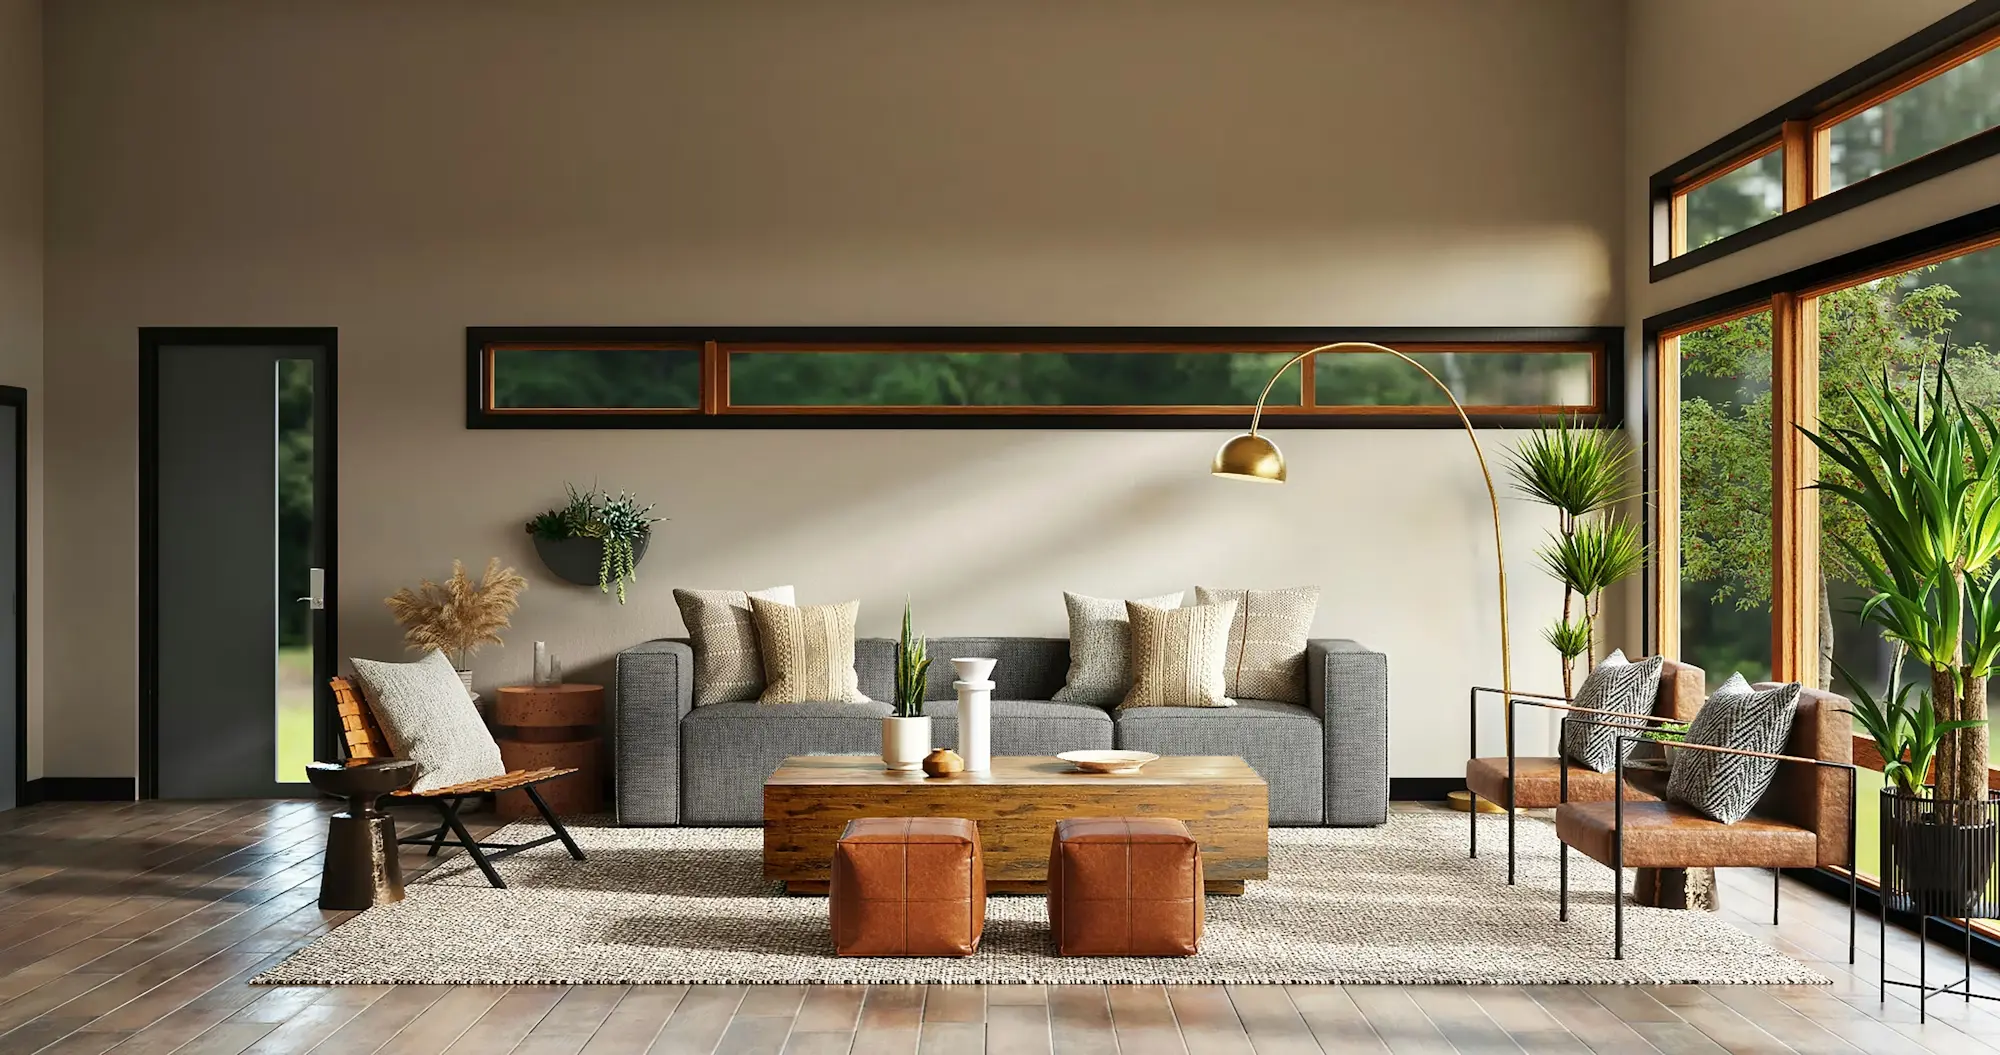
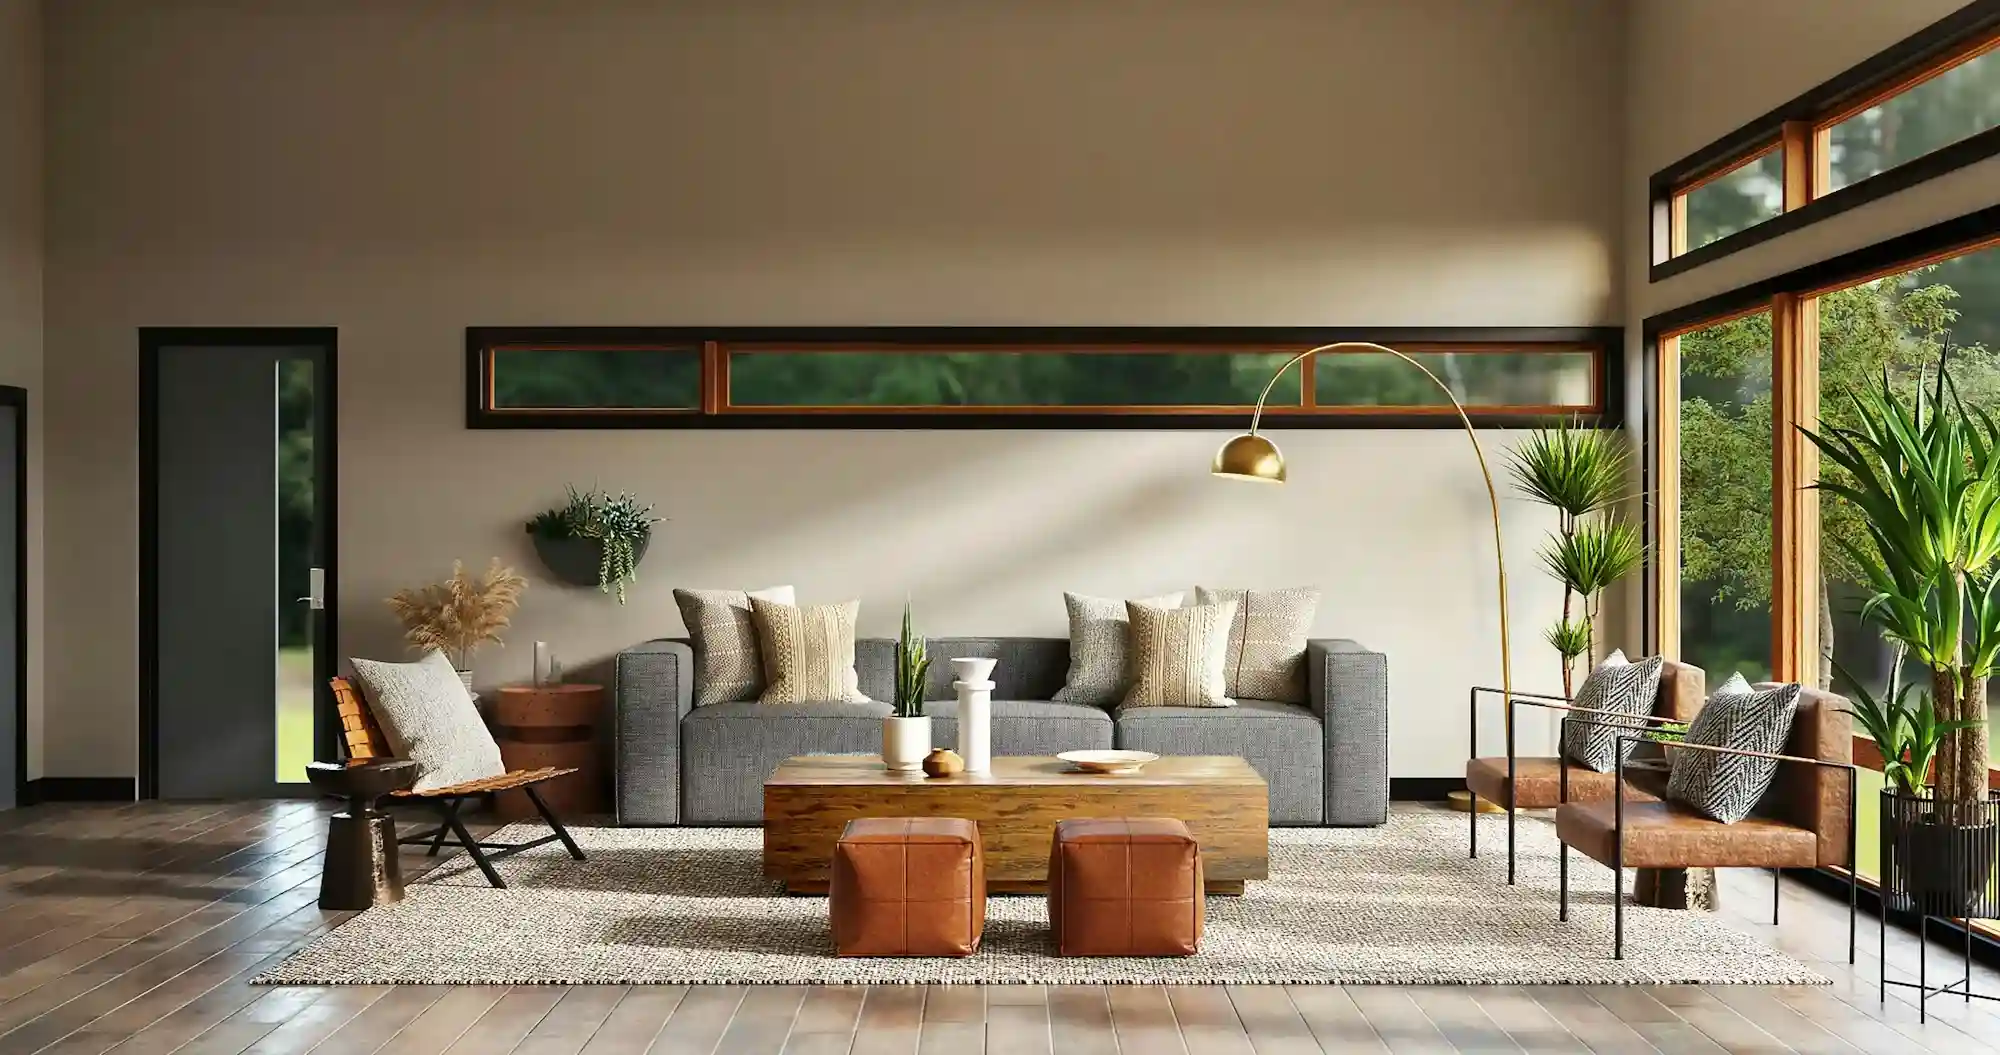
improve performance on LCP

diff --git a/src/components/Services.tsx b/src/components/Services.tsx
@@ -11,7 +11,7 @@ export default function Services() {
       description: t('services.residential.desc'),
       icon: Home,
       // Added leading slash and pointed to your gallery folder
-      image: "/gallery/residential-expertise.png", 
+      image: "/gallery/residential-expertise.webp", 
       alt: "Modern Residential Interior Design Singapore",
       link: "/residential"
     },
@@ -20,7 +20,7 @@ export default function Services() {
       description: t('services.commercial.desc'),
       icon: Briefcase,
       // Added leading slash and pointed to your gallery folder
-      image: "/gallery/commercial-expertise.png",
+      image: "/gallery/commercial-expertise.webp",
       alt: "Commercial Office Renovation Singapore",
       link: "/commercial"
     },
@@ -29,7 +29,7 @@ export default function Services() {
       description: t('services.custom.desc'),
       icon: PenTool,
       // Added leading slash and pointed to your gallery folder
-      image: "/gallery/carpentry-expertise.png",
+      image: "/gallery/carpentry-expertise.webp",
       alt: "Custom Carpentry Singapore",
       link: "/gallery"
     }

diff --git a/index.html b/index.html
@@ -52,7 +52,8 @@
 
     <link rel="preconnect" href="https://fonts.googleapis.com">
     <link rel="preconnect" href="https://fonts.gstatic.com" crossorigin>
-    <link href="https://fonts.googleapis.com/css2?family=Montserrat:wght@300;400;500;600;700&family=Playfair+Display:ital,wght@0,400;0,500;0,600;0,700;1,400&display=swap" rel="stylesheet">
+    <link href="https://fonts.googleapis.com/css2?family=Montserrat:wght@300;400;500;600;700&family=Playfair+Display:ital,wght@0,400;0,500;0,600;0,700;1,400&display=swap" rel="stylesheet" media="print" onload="this.media='all'">
+    <noscript><link href="https://fonts.googleapis.com/css2?family=Montserrat:wght@300;400;500;600;700&family=Playfair+Display:ital,wght@0,400;0,500;0,600;0,700;1,400&display=swap" rel="stylesheet"></noscript>
 
   </head>
   <body>

diff --git a/src/components/Hero.tsx b/src/components/Hero.tsx
@@ -97,7 +97,7 @@ export default function Hero() {
 
           {/* Subtitle */}
           <motion.p
-            initial={{ opacity: 0, y: 20 }}
+            initial={false}
             animate={{ opacity: 1, y: 0 }}
             transition={{ duration: 0.8, delay: 0.2, ease: 'easeOut' }}
             className="text-lg md:text-xl text-gray-200 mb-6 max-w-3xl mx-auto font-light tracking-wide leading-relaxed"
